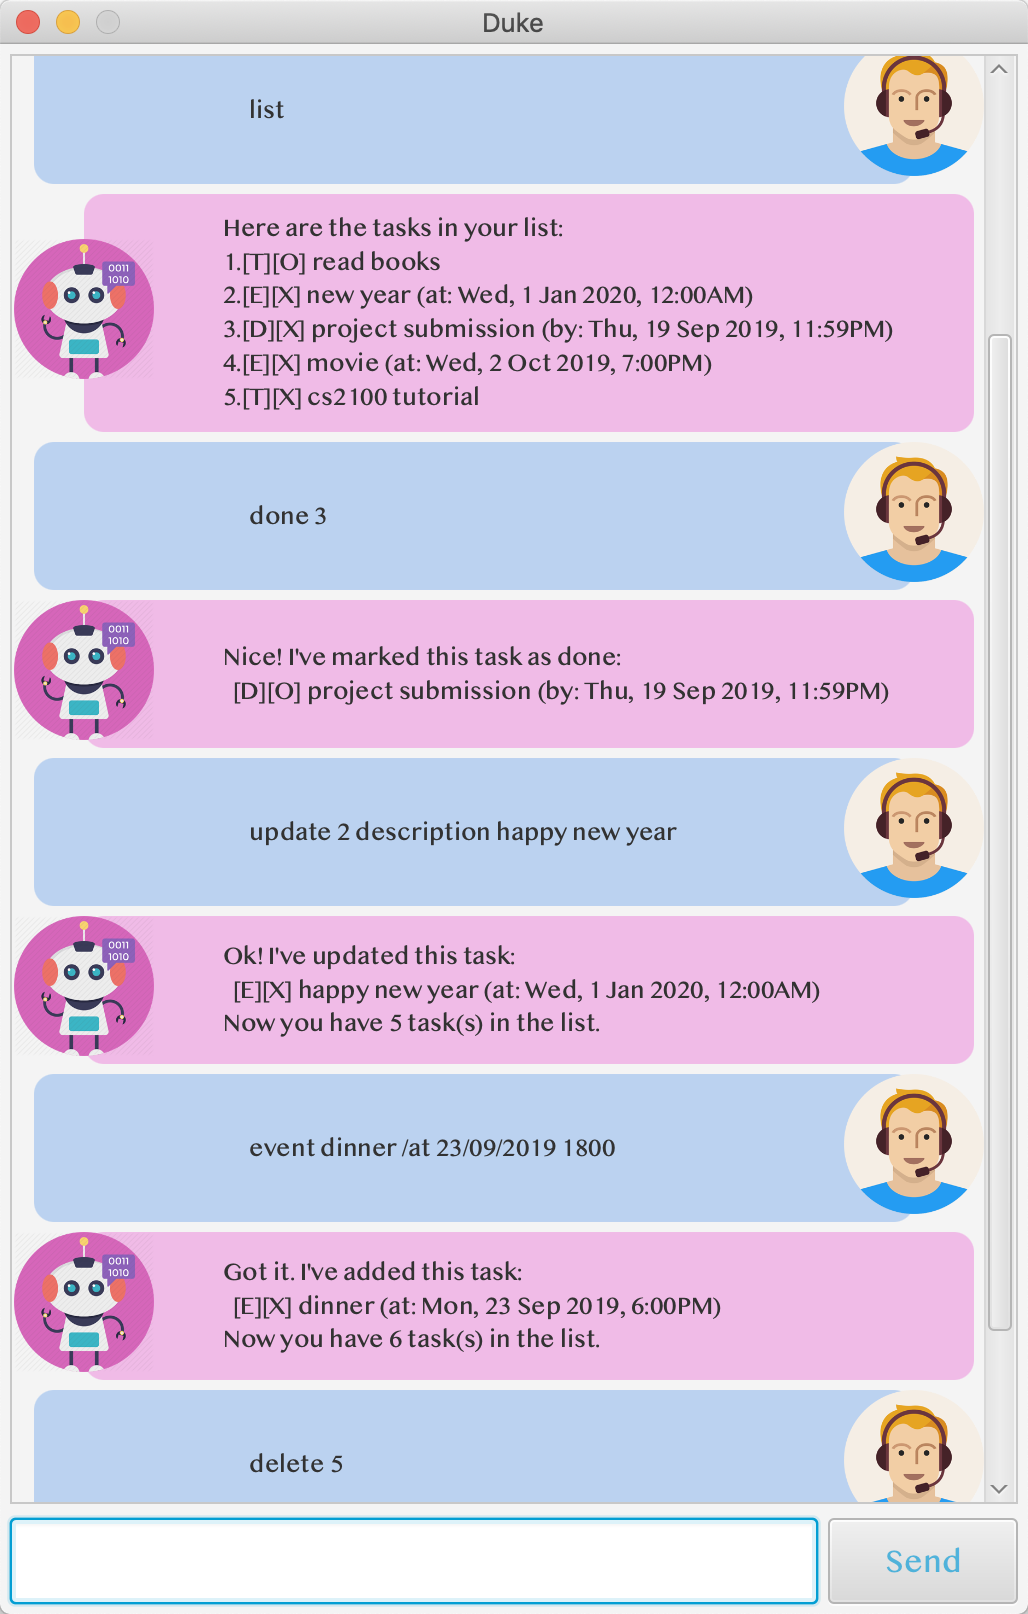
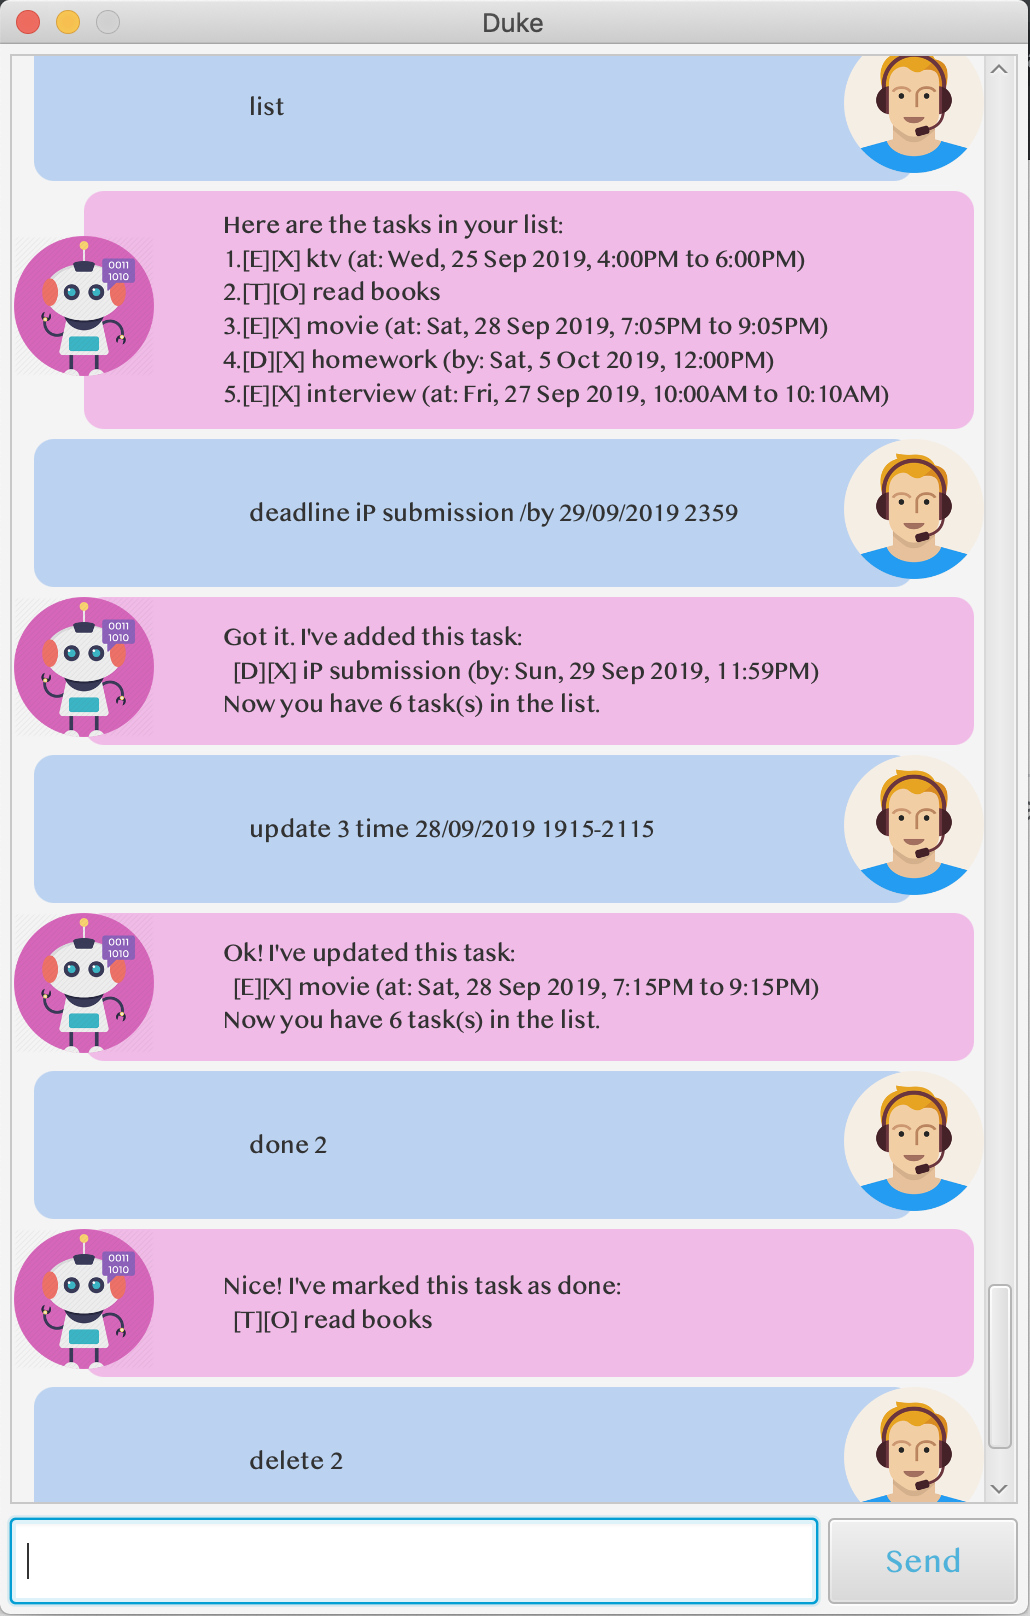
Update User Guide and Ui.png to reflect latest changes in input and output formats

Changed region(s): [[0.0, 0.0, 1.0, 1.0], [0.249, 0.4957, 0.6537, 0.5266], [0.4669, 0.0, 0.5292, 0.031]]

diff --git a/docs/README.md b/docs/README.md
@@ -8,10 +8,10 @@ You can let Duke keep track of your tasks by providing the _description_ and _ti
 Duke supports three types of tasks:
 * _Normal Task_: A task to be done, without a specific time.
 * _Deadline_: A task that is due by a specific time.
-* _Event_: An event that will occur at a specific time.
+* _Event_: An event that starts at a specific time and ends at a specific time.
 
 ### Update an existing task
-You can update the _description_ or _time_ (if applicable) of an existing task.
+You can update the _description_ or _time_ (only if the task is a deadline or event) of an existing task.
 
 ### Mark a task as done
 You can mark an existing task in the list as done. 
@@ -45,7 +45,7 @@ You can exit Duke by typing a single word _"bye"_, and the app will be automatic
 ### `todo` - add a normal task
 
 To add a normal task, type `todo` followed by the _description_ of the task, and it will be recorded by Duke. 
-By default, every newly added task is marked as undone.
+By default, every newly added task is marked as undone (indicated by 'X').
 
 Example of usage: 
 
@@ -55,15 +55,15 @@ Expected outcome:
 
 ```
  Got it. I've added this task: 
-   [T][✘] read books
+   [T][X] read books
  Now you have 1 task(s) in the list.
 ```
  
 ### `deadline` - add a task with a deadline
  
 To add a task with a specific deadline, type `deadline` followed by: (i) the _description_ of the task, 
-(ii) `/by`, (iii) the _due time_, in `d/MM.yyyy HHmm` format. It will be recorded by Duke. 
-By default, every newly added task is marked as undone.
+(ii) `/by`, (iii) the _due time_, in `d/MM/yyyy HHmm` format. It will be recorded by Duke. 
+By default, every newly added task is marked as undone (indicated by 'X').
  
 Example of usage: 
  
@@ -73,32 +73,32 @@ Expected outcome:
  
 ```
  Got it. I've added this task: 
-   [D][✘] project submission (by: Wed, 2 Oct 2019, 11:59PM)
+   [D][X] project submission (by: Wed, 2 Oct 2019, 11:59PM)
  Now you have 2 task(s) in the list.
 ```
    
 ### `event` - add an event with a time of occurrence
-To add an event with a specific time of occurrence, type `event` followed by: (i) the _description_ of the event, 
-(ii) `/at`, (iii) the _time of occurrence_, in `d/MM.yyyy HHmm` format. It will be recorded by Duke. 
-By default, every newly added task is marked as undone.
+To add an event with specific start time and end time, type `event` followed by: (i) the _description_ of the event, 
+(ii) `/at`, (iii) the _start time_ and _end time_, in `d/MM/yyyy HHmm-HHmm` format. It will be recorded by Duke. 
+By default, every newly added task is marked as undone (indicated by 'X'). 
 
 Example of usage: 
  
-`event team meeting /at 18/09/2019 1600`
+`event team meeting /at 18/09/2019 1600-1800`
  
 Expected outcome:
  
 ```
  Got it. I've added this task: 
-   [E][✘] team meeting (at: Wed, 18 Sep 2019, 4:00PM)
+   [E][X] team meeting (at: Wed, 18 Sep 2019, 4:00PM to 6:00PM)
  Now you have 3 task(s) in the list.
 ```
  
 ### `update` - update an existing task
 To update an existing task, type `update` followed by: (i) the task index, 
-(ii) the attribute which you want to update, i.e. `description` or `time` (if applicable), 
-(iii) the new value of the attribute. The task will be updated without changing its position
-in the list.
+(ii) the attribute which you want to update, i.e. `description` or `time` (if the task is a deadline or event), 
+(iii) the new value of the attribute. The task will be updated without changing its position in the list.
+_Note that the index is with respect to the task list, not the current displayed list._
  
 Example of usage #1: 
   
@@ -108,7 +108,7 @@ Expected outcome #1:
   
 ```
  Ok! I've updated this task: 
-   [T][✘] read five books
+   [T][X] read five books
  Now you have 3 task(s) in the list.
 ```
  
@@ -120,13 +120,25 @@ Expected outcome #2:
   
 ```
  Ok! I've updated this task: 
-   [D][✘] project submission (by: Thu, 19 Sep 2019, 11:59PM)
+   [D][X] project submission (by: Thu, 19 Sep 2019, 11:59PM)
+ Now you have 3 task(s) in the list.
+```
+Example of usage #3: 
+  
+`update 3 time 25/09/2019 1400-1600`
+  
+Expected outcome #3:
+  
+```
+ Ok! I've updated this task: 
+   [E][X] team meeting (at: Wed, 25 Sep 2019, 2:00PM to 4:00PM)
  Now you have 3 task(s) in the list.
 ```
  
 ### `done` - mark a task as done
 To mark an existing task as completed, type `done` followed by the index of the task.
-Its status in Duke will change from a cross (uncompleted) to a tick (completed).  
+Its status in Duke will change from 'X' (uncompleted) to 'O' (completed).  
+_Note that the index is with respect to the task list, not the current displayed list._
  
 Example of usage: 
   
@@ -136,7 +148,7 @@ Expected outcome:
   
 ```
  Nice! I've marked this task as done: 
-   [T][✓] read five books
+   [T][O] read five books
 ```
 
 ### `list` - display all existing tasks
@@ -151,14 +163,15 @@ Expected outcome:
   
 ```
  Here are the tasks in your list:
- 1.[T][✓] read five books
- 2.[D][✘] project submission (by: Thu, 19 Sep 2019, 11:59PM)
- 3.[E][✘] team meeting (at: Wed, 18 Sep 2019, 4:00PM)
+ 1.[T][O] read five books
+ 2.[D][X] project submission (by: Thu, 19 Sep 2019, 11:59PM)
+ 3.[E][X] team meeting (at: Wed, 25 Sep 2019, 2:00PM to 4:00PM)
 ```
 
 ### `find` - search by keyword (or phrase)
 To search for all tasks that contain the specified keyword (or phrase), type `find` 
 followed by the keyword (or phrase). Duke will display a list of matching results. 
+_Note that the search is case sensitive._
  
 Example of usage: 
   
@@ -168,12 +181,13 @@ Expected outcome:
   
 ```
  Here are the matching tasks in your list:
- 1.[D][✘] project submission (by: Thu, 19 Sep 2019, 11:59PM)
+ 1.[D][X] project submission (by: Thu, 19 Sep 2019, 11:59PM)
 ```
 
 ### `delete` - delete an existing task from the list
 To delete an existing task, type `delete` followed by the index of the task. 
 It will be removed from the task list and cease to be tracked by Duke.
+_Note that the index is with respect to the task list, not the current displayed list._
  
 Example of usage: 
   
@@ -183,7 +197,7 @@ Expected outcome:
   
 ```
  Noted. I've removed this task: 
-   [T][✓] read five books
+   [T][O] read five books
  Now you have 2 task(s) in the list.
 ```
 
